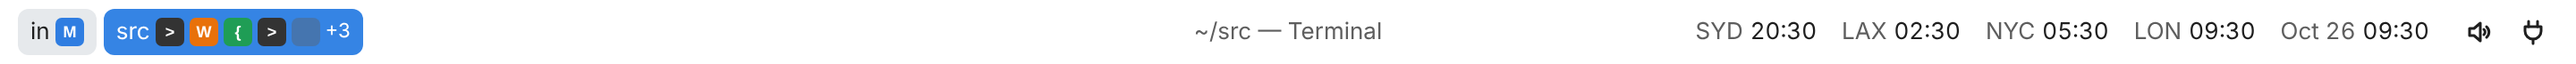
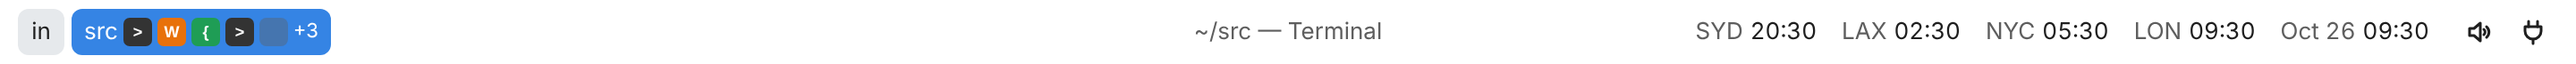
Show only attention on the bar's workspace chips
Each chip on the bar is its workspace's name, plus the app icon of each
window there wanting attention, up to five then +n, rather than an icon per
window. A click on such an icon focuses that window, bringing its workspace
to that bar's display if no display shows it. The menu bar item and the
dashboard already showed names alone. The mocks are re-rendered.

Claude-Session: https://claude.ai/code/session_01HVTEXxBWDTRrazjgKYSyrW

Changed region(s): [[0.0, 0.1389, 0.1562, 0.8611]]

diff --git a/hammerspoon/tilemo/dashboard/bar.js b/hammerspoon/tilemo/dashboard/bar.js
@@ -2,7 +2,8 @@
 // the workspaces left, the focused window's title in the middle, and the
 // clocks and status icons right. tilemo fills it with tilemo.update(state) and
 // hears back through the "tilemo" message handler: { uuid, show: n },
-// { uuid, step: 1 or -1 }, { open: "battery" | "wifi" | "network" },
+// { uuid, step: 1 or -1 }, { uuid, focus: window id } from an attention icon,
+// { open: "battery" | "wifi" | "network" },
 // { toggle: "mic" | "volume" | "awake" | "source" }, { volume: 1 or -1 },
 // { dashboard: true }, { clockErrors } naming a clocks file that's wrong, or
 // { goodClocks }, the clocks to keep while one is.
@@ -50,8 +51,9 @@ function shortName(name) {
   return chars.length > NAME_MAX ? chars.slice(0, NAME_MAX).join("") + "…" : chars.join("");
 }
 
-// Each chip is its name, then one icon per window (tilemo sends at most
-// five, and how many more as `more`), as tide's are. An app with no icon
+// Each chip is its name, then the app icon of each window there wanting
+// attention (tilemo sends at most five, their ids in `wins`, and how many
+// more as `more`), which a click focuses (SPEC.md §8). An app with no icon
 // shows as a blank square of the same size, so the count still reads.
 function renderWorkspaces(nav, workspaces, appIcons = {}) {
   nav.replaceChildren();
@@ -62,17 +64,26 @@ function renderWorkspaces(nav, workspaces, appIcons = {}) {
     b.type = "button";
     b.title = String(w.n);
     b.append(el("span", "n", shortName(w.n)));
-    for (const app of w.apps || []) {
+    const wins = w.wins || [];
+    (w.apps || []).forEach((app, i) => {
       const url = appIcons[app];
+      let icon;
       if (url) {
-        const img = el("img", "app");
-        img.src = url;
-        img.alt = "";
-        b.append(img);
+        icon = el("img", "app");
+        icon.src = url;
+        icon.alt = "";
       } else {
-        b.append(el("span", "app none"));
+        icon = el("span", "app none");
       }
-    }
+      if (wins[i] !== undefined) {
+        icon.addEventListener("click", (e) => {
+          // The window, not the chip's workspace.
+          e.stopPropagation();
+          send({ focus: wins[i] });
+        });
+      }
+      b.append(icon);
+    });
     if (w.more > 0) b.append(el("span", "more", `+${w.more}`));
     // A field tilemo left out is false: toggle(name, undefined) would flip it.
     for (const k of ["current", "elsewhere", "occupied", "urgent"]) b.classList.toggle(k, !!w[k]);

diff --git a/TODO.md b/TODO.md
@@ -75,13 +75,6 @@ bottom-right corner. To do, not built:
 - **Check on a Mac:** that a click on the tray leaves focus where it was,
   and that the tip shows while another app is in front.
 
-## The bar's workspace strip
-
-**Decided** (SPEC.md §8, §14.2): a chip is its name alone, plus the app
-icon of each window there wanting attention, which a click focuses. The
-menu bar item and the dashboard already show names alone. To do, not
-built: `bar.lua`'s state and `bar.js`'s chips, and the mocks.
-
 ## Launcher looks
 
 - **Try tileco's launcher page.** The launcher is `hs.chooser` with
